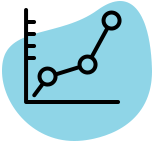
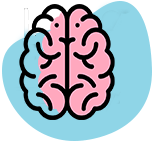
ver mas componentes

diff --git a/index.html b/index.html
@@ -135,41 +135,62 @@
             <div class="container">
                 <div class="feature-col">
                     <h3>ATENCIÓN A LA SALUD MENTAL</h3>
-                    <img src="images/home-faeture-img/logo_salud.png" class="img-responsive" alt="service" />
+                    <img src="images/home-faeture-img/service_img1.png" class="img-responsive" alt="service" />
                     <h3>La salud mental incluye el bienestar emocional, psicológico y social de una persona. También
                         determina cómo un ser humano maneja el estrés, se relaciona con otros y toma decisiones.</h3>
                     <div class="categorias">
                         <div class="cajita1">
+                            <input type="checkbox" class="read-more-state" id="post-1" />
                             <h3>Valoración y Diagnóstico Psicológico</h3>
-                            <p>Es un procedimiento mediante el cual un psicólogo especializado recopila información
-                                sobre el paciente a través de test y entrevistas, con el fin de evaluar el
+                            <p class="read-more-wrap" >Es un procedimiento mediante el cual un psicólogo especializado recopila información
+                                sobre el paciente a través de test y entrevistas.
+                                <span class="read-more-target">con el fin de evaluar el
                                 funcionamiento y las capacidades del mismo en determinadas áreas y, a su vez, predecir
-                                cómo será su comportamiento en un futuro.
-                            </p>
-                            <p>
+                                cómo será su comportamiento en un futuro.<br/>
                                 La evaluación psicológica se realiza mediante:
                                 entrevista, test psicométricos, registros y observaciones.
+                                <br/> 
+                                </span>
                             </p>
+                            <label for="post-1" class="read-more-trigger"></label>
                         </div>
                         <div class="cajita1">
                             <h3>Proceso psicoterapéutico</h3>
-                            <p>El proceso terapéutico cosiste en una serie de sesiones con la finalidad que el estado
+                            <input type="checkbox" class="read-more-state" id="post-2" />
+                            <p class="read-more-wrap">
+                                El proceso terapéutico cosiste en una serie de sesiones con la finalidad que el estado
                                 consciente se amplíe. En resumen, un proceso terapéutico te ayudará a reconocer y
-                                entender:
-                                El modo cómo te enfrentas a las situaciones, la forma en la que te relacionas con otros,
+                                entender
+                                <span class="read-more-target">
+                                    El modo cómo te enfrentas a las situaciones, la forma en la que te relacionas con otros,
                                 cuáles son los significados que asocias a ciertas cosas, de qué manera reaccionas ante
                                 circunstancias o personas, cómo repercute tu forma de ser en los demás.
+                                </span>
                             </p>
+                            <label for="post-2" class="read-more-trigger"></label>
                         </div>
                         <div class="cajita1">
                             <h3>Rehabilitación Emocional.</h3>
-                        <p>Reeducación emocional y cognitiva, es vital para las personas que sufren alguna minusvalía repentina, como consecuencia de un accidente o enfermedad. El paciente no solo tendrá que enfrentarse a barreras físicas, también necesitará la ayuda del psicólogo para derribar aquellas barreras psicológicas que le impiden adaptarse a su nueva situación de una manera positiva.</p>
+                            <input type="checkbox" class="read-more-state" id="post-3" />
+                        <p class="read-more-wrap">Reeducación emocional y cognitiva, es vital para las personas que sufren alguna minusvalía repentina, como consecuencia de un accidente o enfermedad.
+                            <span class="read-more-target">
+                                <br/>
+                                El paciente no solo tendrá que enfrentarse a barreras físicas, también necesitará la ayuda del psicólogo para derribar aquellas barreras psicológicas que le impiden adaptarse a su nueva situación de una manera positiva.
+                                <br/>
+                            </span>
+                        </p>
+                        <label for="post-3" class="read-more-trigger"></label>
                         </div>
                         <div class="cajita1">
                             <h3>Psico orientación y Consejería Psicológica</h3>
-                        <p>La consejería psicológica es un proceso a través del cual un consejero ayuda a las personas que recurren a él a obtener una mayor comprensión o entendimiento de lo que les sucede, a conocerse un poco más e identificar los recursos con los que cuenta para ayudarse a sí mismo a resolver un problema o conflicto que enfrenta que interfiere con su tranquilidad, bienestar y/o desempeño desde cualquier área.</p>
+                            <input type="checkbox" class="read-more-state" id="post-4" />
+                        <p class="read-more-wrap">La consejería psicológica es un proceso a través del cual un consejero ayuda a las personas que recurren a él a obtener una mayor comprensión o entendimiento de lo que les sucede,
+                            <span class="read-more-target">
+                                a conocerse un poco más e identificar los recursos con los que cuenta para ayudarse a sí mismo a resolver un problema o conflicto que enfrenta que interfiere con su tranquilidad, bienestar y/o desempeño desde cualquier área.
+                            </span>
+                            </p>
+                            <label for="post-4" class="read-more-trigger"></label>
                         </div>
-
                     </div>
                     <!--                </div>feature-col-->
                 </div>

diff --git a/css/style.css b/css/style.css
@@ -264,7 +264,7 @@ section.header-bg-parent:after {
     box-shadow: 2px 2px 10px #fefefe;
     border-radius: 13px;
     transition: all 0.5s ease;
-    height: 590px;
+    height: 620px;
 }
 
 .feature-col:hover {
@@ -971,4 +971,44 @@ hr.footer-hr {
     .feature-col{
         height:30% !important;
     }
+}
+
+
+.read-more-state {
+    display: none;
+}
+
+.read-more-target {
+    opacity: 0;
+    max-height: 0;
+    font-size: 0;
+    transition: .25s ease;
+}
+
+.read-more-state:checked~.read-more-wrap .read-more-target {
+    opacity: 1;
+    font-size: inherit;
+    max-height: 999em;
+}
+
+.read-more-state~.read-more-trigger:before {
+    content: 'Ver más';
+}
+
+.read-more-state:checked~.read-more-trigger:before {
+    content: 'Ver menos';
+}
+
+.read-more-trigger {
+    cursor: pointer;
+    display: inline-block;
+    padding: 0 .5em;
+    color: #666;
+    font-size: .9em;
+    line-height: 2;
+    background:linear-gradient(90deg, #fe8a42, #f46914);
+    font-weight: bold;
+    font-family: 'Nunito';
+    color: white;
+    border-radius: .25em;
 }
